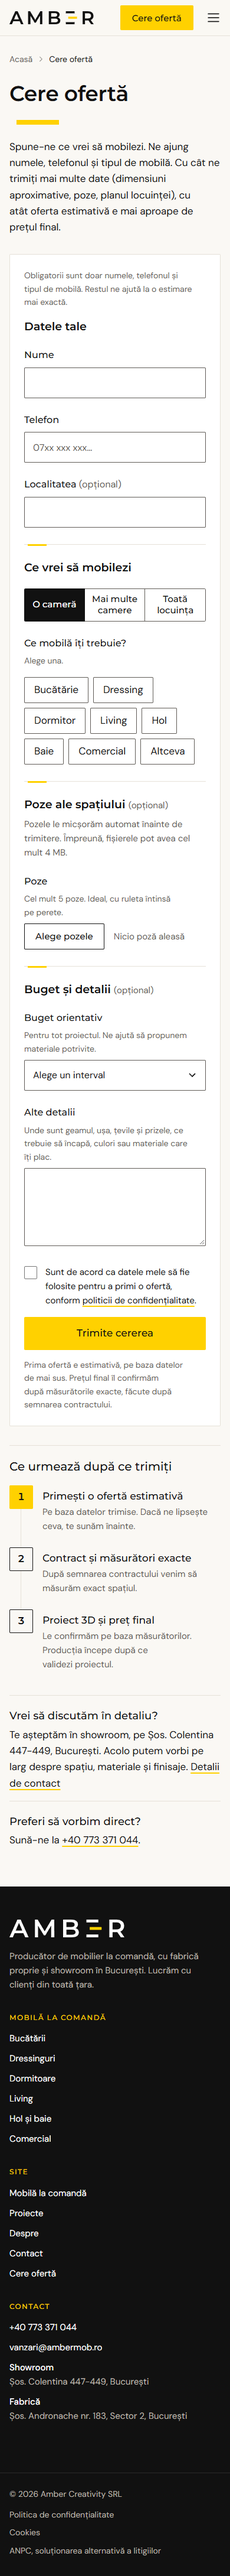
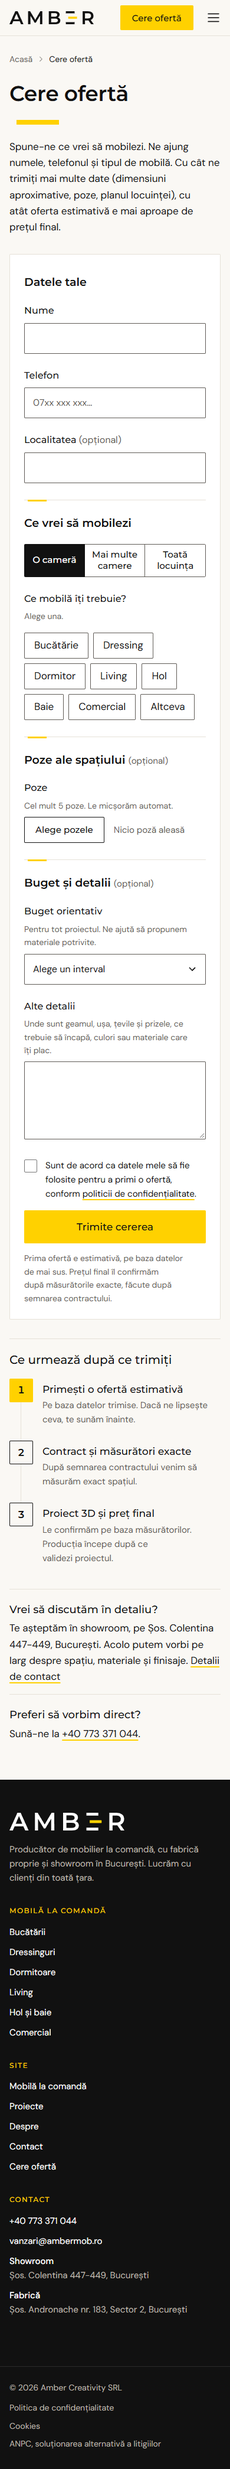
Refining offer request

diff --git a/app/cerere-oferta/FormularOferta.js b/app/cerere-oferta/FormularOferta.js
@@ -1,6 +1,6 @@
 "use client";
 
-import { startTransition, useActionState, useEffect, useRef, useState } from "react";
+import { startTransition, useActionState, useEffect, useLayoutEffect, useRef, useState } from "react";
 import Link from "next/link";
 import { CheckCircle, WarningCircle } from "@phosphor-icons/react/dist/ssr";
 import { trimiteCerere } from "./actions";
@@ -56,12 +56,32 @@ export default function FormularOferta({ mobilaPreselectata = [] }) {
   const confirmare = useRef(null);
   const inputPoze = useRef(null);
   const inputPlan = useRef(null);
+  const ghid = useRef(null);
+  const coloanaCampuri = useRef(null);
+  const ghidAtins = useRef(false);
 
   const tip = domeniu === "o-camera" ? mobila[0] : null;
   const campuri = campuriDimensiuni({ domeniu, tip, forma, nrPereti });
   const arataPlan = cerePlan(domeniu, tip);
   const totalFisiere = poze.reduce((s, f) => s + f.size, 0) + (arataPlan && plan ? plan.size : 0);
   const pestePrag = totalFisiere > limiteFisiere.mbTotal * MB;
+
+  // Ghidul „Cum măsor?” e închis implicit. Pe ecrane late, unde stă lângă câmpuri, se deschide
+  // singur doar dacă încape în înălțimea câmpurilor (nu lungește pagina). Rulează înainte de
+  // afișare, deci nu se vede nicio clipire; după ce omul îl deschide sau închide, nu mai intervenim.
+  const cheieCampuri = campuri.map((c) => c.nume).join(",");
+  useLayoutEffect(() => {
+    const d = ghid.current;
+    const col = coloanaCampuri.current;
+    if (!d || !col || ghidAtins.current) return;
+    const alaturat = getComputedStyle(d.parentElement).gridTemplateColumns.split(" ").length > 1;
+    if (!alaturat) {
+      d.open = false;
+      return;
+    }
+    d.open = true;
+    d.open = d.getBoundingClientRect().height <= col.getBoundingClientRect().height + 24;
+  }, [cheieCampuri]);
 
   const erori = { ...(stare.erori ?? {}), ...eroriClient };
   if (pestePrag) {
@@ -212,11 +232,6 @@ export default function FormularOferta({ mobilaPreselectata = [] }) {
           {stare.mesaj}
         </p>
       ) : null}
-
-      <p className={styles.notaObligatorii}>
-        Obligatorii sunt doar numele, telefonul și tipul de mobilă. Restul ne ajută la o estimare mai
-        exactă.
-      </p>
 
       {/* 1. Datele tale */}
       <section className={styles.sectiune} aria-labelledby="sectiune-date">
@@ -382,15 +397,12 @@ export default function FormularOferta({ mobilaPreselectata = [] }) {
           ) : null}
 
           <div className={styles.dimensiuniCuGhid}>
-            <div className={styles.dimensiuni}>
+            <div className={styles.dimensiuni} ref={coloanaCampuri}>
               {campuri.map((c) => {
                 const nume = `dim_${c.nume}`;
                 return (
                   <div key={nume} className={styles.campDimensiune}>
-                    <label htmlFor={nume}>
-                      {c.eticheta}
-                      {c.nota ? <span className={styles.optional}> ({c.nota})</span> : null}
-                    </label>
+                    <label htmlFor={nume}>{c.eticheta}</label>
                     <div className={styles.cuUnitate}>
                       <input
                         id={nume}
@@ -411,10 +423,13 @@ export default function FormularOferta({ mobilaPreselectata = [] }) {
               })}
             </div>
 
-            <aside className={styles.ghid} aria-labelledby="ghid-titlu">
-              <h3 id="ghid-titlu" className={styles.titluGhid}>
-                Cum măsori
-              </h3>
+            <details
+              ref={ghid}
+              className={styles.ghid}
+            >
+              <summary className={styles.titluGhid} onClick={() => (ghidAtins.current = true)}>
+                Cum măsor?
+              </summary>
               <SchitaPerete />
               <ul className={styles.pasiGhid}>
                 <li>Lungimea: de la un colț la celălalt, de-a lungul peretelui pe care vine mobila.</li>
@@ -425,7 +440,7 @@ export default function FormularOferta({ mobilaPreselectata = [] }) {
                 </li>
                 <li>Fă poze cu ruleta întinsă pe perete. Din ele vedem și spațiul, și dimensiunile.</li>
               </ul>
-            </aside>
+            </details>
           </div>
         </section>
       ) : null}
@@ -436,17 +451,18 @@ export default function FormularOferta({ mobilaPreselectata = [] }) {
           {arataPlan ? "Plan și poze" : "Poze ale spațiului"}{" "}
           <span className={styles.optional}>(opțional)</span>
         </h2>
-        <p id="fisiere-limita" className={styles.ajutorSectiune}>
-          {arataPlan
-            ? `Pentru mai multe camere, planul ne ajută mai mult decât dimensiunile fiecărui perete. Planul: un PDF de cel mult ${limiteFisiere.mbPdf} MB sau o imagine. `
-            : ""}
-          Pozele le micșorăm automat înainte de trimitere. Împreună, fișierele pot avea cel mult{" "}
-          {limiteFisiere.mbTotal} MB.
-        </p>
+        {arataPlan ? (
+          <p className={styles.ajutorSectiune}>
+            Pentru mai multe camere, planul ne ajută mai mult decât dimensiunile fiecărui perete.
+          </p>
+        ) : null}
 
         {arataPlan ? (
           <div className={styles.camp}>
             <label htmlFor="plan">Planul locuinței sau al spațiului</label>
+            <p id="plan-ajutor" className={styles.ajutor}>
+              Planul poate fi PDF sau o poză clară.
+            </p>
             <div className={styles.fisiere}>
               <input
                 ref={inputPlan}
@@ -457,13 +473,13 @@ export default function FormularOferta({ mobilaPreselectata = [] }) {
                 onChange={laPlan}
                 className={styles.inputFisiere}
                 aria-invalid={erori.plan ? true : undefined}
-                aria-describedby={descris("fisiere-limita", "plan-stare", erori.plan && "plan-eroare")}
+                aria-describedby={descris("plan-ajutor", "plan-stare", erori.plan && "plan-eroare")}
               />
               <span className={styles.butonFisiere} aria-hidden="true">
                 Alege planul
               </span>
               <span id="plan-stare" className={styles.stareFisiere} aria-live="polite">
-                {plan ? `${plan.name} · ${formateazaMarime(plan.size)}` : "Niciun plan ales"}
+                {plan ? plan.name : "Niciun plan ales"}
               </span>
             </div>
             {plan ? (
@@ -478,7 +494,7 @@ export default function FormularOferta({ mobilaPreselectata = [] }) {
         <div className={styles.camp}>
           <label htmlFor="poze">Poze</label>
           <p id="poze-ajutor" className={styles.ajutor}>
-            Cel mult {limiteFisiere.poze} poze. Ideal, cu ruleta întinsă pe perete.
+            Cel mult {limiteFisiere.poze} poze. Le micșorăm automat.
           </p>
           <div className={styles.fisiere}>
             <input
@@ -497,11 +513,7 @@ export default function FormularOferta({ mobilaPreselectata = [] }) {
               Alege pozele
             </span>
             <span id="poze-stare" className={styles.stareFisiere} aria-live="polite">
-              {poze.length === 0
-                ? "Nicio poză aleasă"
-                : `${poze.length === 1 ? "1 poză aleasă" : `${poze.length} poze alese`} · ${formateazaMarime(
-                    poze.reduce((s, f) => s + f.size, 0),
-                  )}`}
+              {poze.length === 0 ? "Nicio poză aleasă" : poze.length === 1 ? "1 poză aleasă" : `${poze.length} poze alese`}
             </span>
           </div>
           {poze.length ? (
@@ -512,12 +524,9 @@ export default function FormularOferta({ mobilaPreselectata = [] }) {
           <Eroare id="poze-eroare">{erori.poze}</Eroare>
         </div>
 
+        {/* Limitele exacte apar doar în mesajul de eroare, când sunt depășite. */}
         <p className={styles.total} data-camp="atasamente" tabIndex={-1} aria-live="polite">
-          {lucreaza
-            ? "Pregătim fișierele…"
-            : totalFisiere
-              ? `Atașamente: ${formateazaMarime(totalFisiere)} din ${limiteFisiere.mbTotal} MB`
-              : null}
+          {lucreaza ? "Pregătim fișierele…" : null}
         </p>
         <Eroare id="atasamente-eroare">{erori.atasamente}</Eroare>
         {stare.aveaFisiere && !poze.length && !plan ? (

diff --git a/lib/cerere.js b/lib/cerere.js
@@ -39,32 +39,35 @@ export function cerePlan(domeniu, tip) {
 const lungime = { min: 20, max: 2000, exemplu: "320" };
 const inaltime = { min: 100, max: 600, exemplu: "260" };
 
+// Etichetele din formular sunt scurte (câte două câmpuri pe rând, pe mobil);
+// `complet` e varianta lungă, folosită în email.
+const campInaltime = { nume: "inaltime", eticheta: "Înălțime", complet: "Înălțimea până la tavan", ...inaltime };
+
 // Câmpurile de dimensiuni (în cm) pentru o cameră, după tipul de mobilă și forma aleasă.
 // nume = numele câmpului din formular (fără prefixul „dim_”).
 export function campuriDimensiuni({ domeniu, tip, forma, nrPereti }) {
   if (domeniu !== "o-camera") return [];
   if (tip === "Bucătărie") {
     const f = formeBucatarie.find((x) => x.valoare === forma) ?? formeBucatarie[0];
-    const campuri = f.pereti.map((p, i) => ({
+    const campuri = f.pereti.map((p) => ({
       nume: `perete_${p}`,
       eticheta: `Peretele ${p.toUpperCase()}`,
-      nota: f.insula && i === 1 ? "dacă e cazul" : undefined,
       ...lungime,
     }));
     if (f.insula) {
       campuri.push(
-        { nume: "insula_lungime", eticheta: "Lungimea insulei", ...lungime, exemplu: "180" },
-        { nume: "insula_latime", eticheta: "Lățimea insulei", min: 40, max: 400, exemplu: "90" },
+        { nume: "insula_lungime", eticheta: "Insula: lungime", complet: "Lungimea insulei", ...lungime, exemplu: "180" },
+        { nume: "insula_latime", eticheta: "Insula: lățime", complet: "Lățimea insulei", min: 40, max: 400, exemplu: "90" },
       );
     }
-    campuri.push({ nume: "inaltime", eticheta: "Înălțimea până la tavan", ...inaltime });
+    campuri.push(campInaltime);
     return campuri;
   }
   if (tip === "Dressing") {
     return [
-      { nume: "latime", eticheta: "Lățimea disponibilă", ...lungime, exemplu: "240" },
-      { nume: "inaltime", eticheta: "Înălțimea până la tavan", ...inaltime },
-      { nume: "adancime", eticheta: "Adâncimea disponibilă", min: 20, max: 400, exemplu: "60" },
+      { nume: "latime", eticheta: "Lățime", complet: "Lățimea disponibilă", ...lungime, exemplu: "240" },
+      campInaltime,
+      { nume: "adancime", eticheta: "Adâncime", complet: "Adâncimea disponibilă", min: 20, max: 400, exemplu: "60" },
     ];
   }
   if (tipuriCuPereti.includes(tip)) {
@@ -72,10 +75,11 @@ export function campuriDimensiuni({ domeniu, tip, forma, nrPereti }) {
     return [
       ...Array.from({ length: n }, (_, i) => ({
         nume: `perete_${i + 1}`,
-        eticheta: n === 1 ? "Lungimea peretelui" : `Peretele ${i + 1}`,
+        eticheta: n === 1 ? "Lungime" : `Peretele ${i + 1}`,
+        complet: n === 1 ? "Lungimea peretelui" : undefined,
         ...lungime,
       })),
-      { nume: "inaltime", eticheta: "Înălțimea până la tavan", ...inaltime },
+      campInaltime,
     ];
   }
   return [];

diff --git a/app/cerere-oferta/FormularOferta.module.css b/app/cerere-oferta/FormularOferta.module.css
@@ -280,11 +280,6 @@
 
 /* ---------- secțiunile formularului ---------- */
 
-.notaObligatorii {
-  font-size: var(--text-mic);
-  color: var(--stone);
-}
-
 .sectiune {
   display: grid;
   gap: 24px;
@@ -507,14 +502,21 @@
 
 @container (min-width: 600px) {
   .dimensiuniCuGhid {
-    grid-template-columns: minmax(0, 1fr) minmax(0, 300px);
+    grid-template-columns: minmax(0, 1fr) minmax(0, 280px);
     align-items: start;
+  }
+
+  .pasiGhid {
+    font-size: 0.8125rem;
   }
 }
 
+/* Câte două câmpuri pe rând; câmpurile se aliniază jos chiar dacă o etichetă e pe două rânduri. */
 .dimensiuni {
   display: grid;
-  gap: 16px;
+  grid-template-columns: repeat(2, minmax(0, 1fr));
+  align-items: end;
+  gap: 16px 12px;
 }
 
 .campDimensiune {
@@ -525,15 +527,17 @@
 .campDimensiune label {
   font-size: 0.9375rem;
   font-weight: 500;
+  line-height: 1.3;
+  text-wrap: balance;
 }
 
 .cuUnitate {
   position: relative;
-  max-width: 220px;
+  max-width: 200px;
 }
 
 .cuUnitate input {
-  padding-right: 48px;
+  padding-right: 40px;
   font-variant-numeric: tabular-nums;
 }
 
@@ -561,17 +565,51 @@
 }
 
 .ghid {
-  padding: 16px;
   background: var(--paper);
   border: 1px solid var(--line);
   border-radius: var(--raza);
 }
 
+.ghid[open] {
+  padding-bottom: 16px;
+}
+
+.ghid > :not(summary) {
+  margin-inline: 16px;
+}
+
 .titluGhid {
-  font-size: 1rem;
-  font-weight: 600;
-  letter-spacing: 0;
-  margin-bottom: 8px;
+  display: flex;
+  align-items: center;
+  gap: 10px;
+  min-height: 48px;
+  padding: 0 16px;
+  font-family: var(--font-titluri), system-ui, sans-serif;
+  font-size: 0.9375rem;
+  font-weight: 500;
+  cursor: pointer;
+  list-style: none;
+}
+
+.titluGhid::-webkit-details-marker {
+  display: none;
+}
+
+/* Plus/minus desenat, ca la întrebările frecvente. */
+.titluGhid::after {
+  content: "+";
+  margin-left: auto;
+  font-size: 1.25rem;
+  line-height: 1;
+}
+
+.ghid[open] .titluGhid::after {
+  content: "–";
+}
+
+.titluGhid:focus-visible {
+  outline: 2px solid var(--ink);
+  outline-offset: 2px;
 }
 
 .schitaPerete {

diff --git a/app/cerere-oferta/actions.js b/app/cerere-oferta/actions.js
@@ -67,7 +67,7 @@ export async function trimiteCerere(stareAnterioara, formData) {
   for (const c of campuri) {
     const r = valideazaDimensiune(valori.dim[c.nume], c);
     if (r.eroare) erori[`dim_${c.nume}`] = r.eroare;
-    else if (r.valoare !== null) dimensiuni.push({ eticheta: c.eticheta, valoare: r.valoare });
+    else if (r.valoare !== null) dimensiuni.push({ eticheta: c.complet ?? c.eticheta, valoare: r.valoare });
   }
   if (valori.detalii.length > 3000) erori.detalii = "Detaliile au peste 3000 de caractere. Scurtează-le puțin.";
 

diff --git a/DECIZII.md b/DECIZII.md
@@ -400,3 +400,32 @@ Legendă: **[V]** = trebuie verificat de tine; **[i]** = doar informativ.
 - **[i] Performanță** pe /cerere-oferta: LCP 1,14s pe mobil și 0,79s pe desktop, CLS cel mult 0,024.
 - **[i] Calitate:** `npm run lint` curat, `npm run build` reușit, detectorul impeccable curat. A semnalat o bordură laterală pe nota din „Cum lucrăm”, pe care am înlocuit-o cu gestul sertarului.
 - **[i] Capturi noi în `capturi/`:** `cerere-oferta-{1440,390}.png` (gol), `cerere-oferta-bucatarie-*.png` (bucătărie în U completată), `cerere-oferta-dressing-*.png` și `cerere-oferta-toata-locuinta-*.png` (cu plan și poze).
+
+---
+
+## 14. /cerere-oferta mai scurt pe mobil
+
+- **[i] Ghidul „Cum măsor?”** e acum un `<details>`, închis implicit.
+  - **Pe desktop:** stă lângă câmpuri și se deschide singur doar dacă încape în înălțimea lor, ca să nu lungească pagina. Decizia se ia înainte de afișare, deci fără clipire, și nu se mai schimbă după ce omul l-a deschis sau închis.
+  - **De fapt:** cu câmpurile pe două coloane, ghidul (~400px) e mai înalt decât ele la toate tipurile, așa că rămâne închis și pe desktop.
+- **[i] Dimensiunile** stau câte două pe rând, la toate lățimile: Peretele A + B, Peretele C + Înălțime; la dressing Lățime + Înălțime, apoi Adâncime.
+  - **Etichete:** sunt scurte acum („Înălțime”, „Lățime”, „Adâncime”, „Insula: lungime”), ca să nu se rupă. Unde etichetele ajung totuși pe două rânduri, câmpurile se aliniază jos.
+  - **În email** rămân etichetele complete („Înălțimea până la tavan”, „Adâncimea disponibilă”), prin câmpul `complet` din `lib/cerere.js`.
+  - **Explicația pentru înălțime** („de la podea până la tavan”) e în ghid.
+- **[i] Nota „Obligatorii sunt doar…”** a fost scoasă. Rămân marcajele „(opțional)” și textul de intro.
+- **[i] Fișierele:**
+  - **Textele de ajutor nu mai au cifre:** „Cel mult 5 poze. Le micșorăm automat.” și „Planul poate fi PDF sau o poză clară.”
+  - **Contorul „Atașamente: X din 4 MB”** și mărimile de lângă fișierele alese au dispărut. În timp ce se micșorează pozele apare doar „Pregătim fișierele…”.
+  - **Limitele exacte** (2 MB pentru PDF, 4 MB în total, 5 poze) apar doar în mesajul de eroare. Validarea a rămas neschimbată.
+- **[i] Rezultat,** pentru varianta bucătărie în U cu 3 poze (înălțimea paginii):
+
+  | Lățime | Pagina înainte | Pagina după | Formularul înainte | Formularul după |
+  | --- | --- | --- | --- | --- |
+  | 390px | 5832px | 4988px (−844px, −14%) | 3456px | 2612px (−24%) |
+  | 1440px | 3256px | 2814px | 2534px | 2092px |
+
+- **[i] Teste:**
+  - 22/22 trimiteri reușite, cu emailurile verificate;
+  - toate cazurile de eroare se comportă ca înainte;
+  - lint curat, build reușit, detectorul impeccable fără probleme.
+- **[i] Capturi noi în `capturi/`:** `cerere-oferta-*` refăcute, plus `cerere-oferta-ghid-deschis-390.png`.
